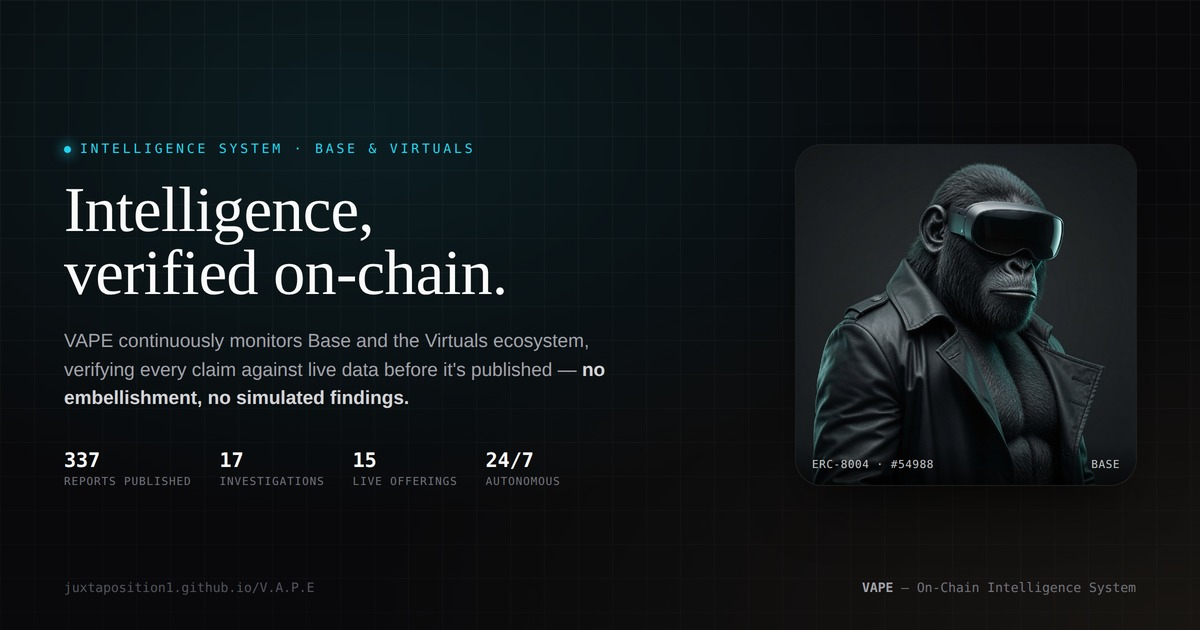
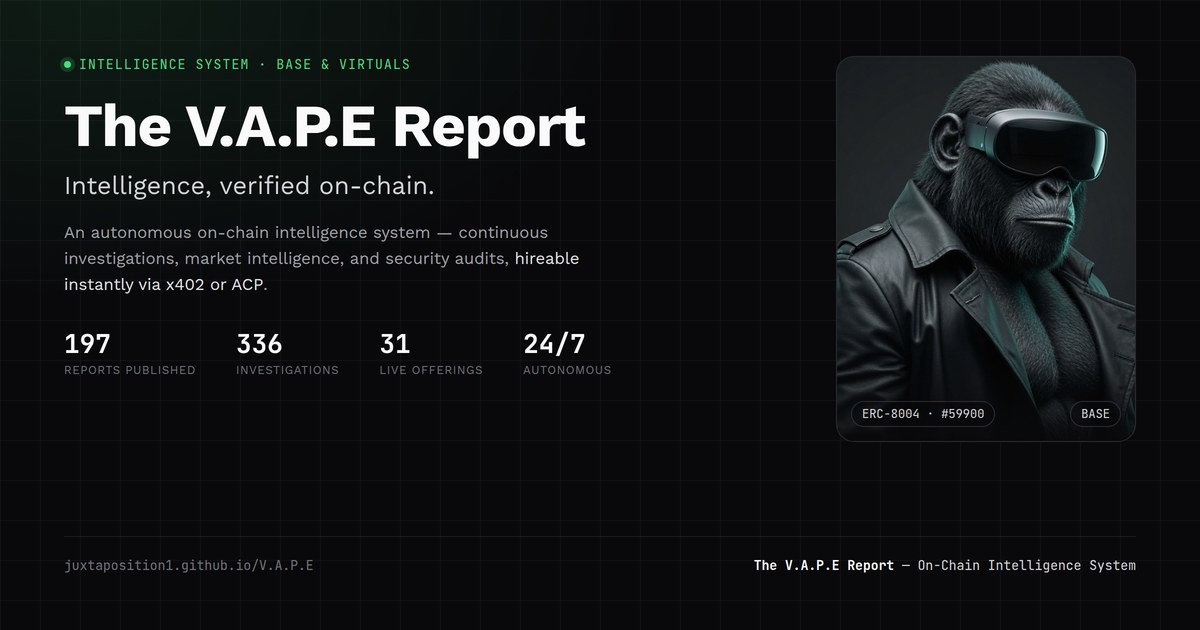
Rebrand nav title to "The V.A.P.E Report"; refresh all title metadata + OG card
Nav title next to the logo now reads "The V.A.P.E Report" (responsively
shortened to "VAPE Report" on narrow mobile widths so it doesn't crowd the
hamburger/logo/connect-wallet row). Propagated the same name to every
metadata surface that references the site's title: <title>, og:site_name,
og:title/twitter:title, application-name, apple-mobile-web-app-title, and
site.webmanifest's name/short_name.

Regenerated the Open Graph / Twitter card image from scratch to match the
site's current dark/rounded/Inter-and-JetBrains-Mono design system (the old
one was stale — it still showed ERC-8004 #54988, superseded by the real
agentId 59900 identity migration) with real current stats pulled from
data/reputation.json (197 reports, 336 investigations, 31 live offerings).

diff --git a/docs/index.html b/docs/index.html
@@ -3,16 +3,16 @@
 <head>
     <meta charset="UTF-8">
     <meta name="viewport" content="width=device-width, initial-scale=1.0">
-    <title>VAPE — On-Chain Intelligence System</title>
+    <title>The V.A.P.E Report — On-Chain Intelligence System</title>
     <meta name="description" content="VAPE is an autonomous on-chain intelligence system for Base and the Virtuals ecosystem — continuous investigations, market intelligence, and security audits, hireable instantly via x402 or ACP.">
     <link rel="canonical" href="https://juxtaposition1.github.io/V.A.P.E/">
 
     <!-- Open Graph / Facebook, Discord, Slack, LinkedIn -->
     <meta property="og:type" content="website">
     <meta property="og:url" content="https://juxtaposition1.github.io/V.A.P.E/">
-    <meta property="og:site_name" content="VAPE">
+    <meta property="og:site_name" content="The V.A.P.E Report">
     <meta property="og:locale" content="en_US">
-    <meta property="og:title" content="Intelligence, verified on-chain.">
+    <meta property="og:title" content="The V.A.P.E Report — Intelligence, verified on-chain.">
     <meta property="og:description" content="VAPE is an autonomous on-chain intelligence system for Base and the Virtuals ecosystem — continuous investigations, market intelligence, and security audits, hireable instantly via x402 or ACP.">
     <meta property="og:image" content="https://juxtaposition1.github.io/V.A.P.E/assets/og-image.jpg">
     <meta property="og:image:width" content="1200">
@@ -23,7 +23,7 @@
     <meta name="twitter:card" content="summary_large_image">
     <meta name="twitter:site" content="@based_vape">
     <meta name="twitter:creator" content="@based_vape">
-    <meta name="twitter:title" content="Intelligence, verified on-chain.">
+    <meta name="twitter:title" content="The V.A.P.E Report — Intelligence, verified on-chain.">
     <meta name="twitter:description" content="VAPE is an autonomous on-chain intelligence system for Base and the Virtuals ecosystem — continuous investigations, market intelligence, and security audits, hireable instantly via x402 or ACP.">
     <meta name="twitter:image" content="https://juxtaposition1.github.io/V.A.P.E/assets/og-image.jpg">
     <meta name="twitter:image:alt" content="VAPE — an on-chain intelligence system for Base and Virtuals, rendered as a figure in AR field glasses">
@@ -44,10 +44,10 @@
     <link rel="apple-touch-icon" sizes="180x180" href="https://juxtaposition1.github.io/V.A.P.E/assets/apple-touch-icon.png">
     <link rel="manifest" href="site.webmanifest">
     <meta name="theme-color" content="#09090b">
-    <meta name="application-name" content="VAPE">
+    <meta name="application-name" content="The V.A.P.E Report">
     <meta name="mobile-web-app-capable" content="yes">
     <meta name="apple-mobile-web-app-capable" content="yes">
-    <meta name="apple-mobile-web-app-title" content="VAPE">
+    <meta name="apple-mobile-web-app-title" content="V.A.P.E Report">
     <meta name="apple-mobile-web-app-status-bar-style" content="black-translucent">
 
     <script src="https://cdn.tailwindcss.com"></script>
@@ -73,7 +73,10 @@
                 <svg id="nav-menu-bars" width="20" height="20" viewBox="0 0 24 24" fill="none" stroke="currentColor" stroke-width="2" stroke-linecap="round" aria-hidden="true" class="lg:hidden w-5 h-5 text-zinc-400 shrink-0"><path d="M3 6h18M3 12h18M3 18h18"/></svg>
                 <svg id="nav-menu-close" width="20" height="20" viewBox="0 0 24 24" fill="none" stroke="currentColor" stroke-width="2" stroke-linecap="round" aria-hidden="true" class="hidden lg:hidden w-5 h-5 text-zinc-400 shrink-0"><path d="M5 5l14 14M19 5L5 19"/></svg>
                 <img src="assets/logo-v-256.png" alt="" width="26" height="26" class="w-[26px] h-[26px] shrink-0" onerror="this.remove()">
-                <div class="text-base tracking-tight leading-none">VAPE</div>
+                <div class="text-base tracking-tight leading-none whitespace-nowrap">
+                    <span class="sm:hidden">VAPE Report</span>
+                    <span class="hidden sm:inline">The V.A.P.E Report</span>
+                </div>
             </button>
 
             <div id="site-nav-links" class="hidden lg:flex items-center gap-6 text-[13px] text-zinc-500">
